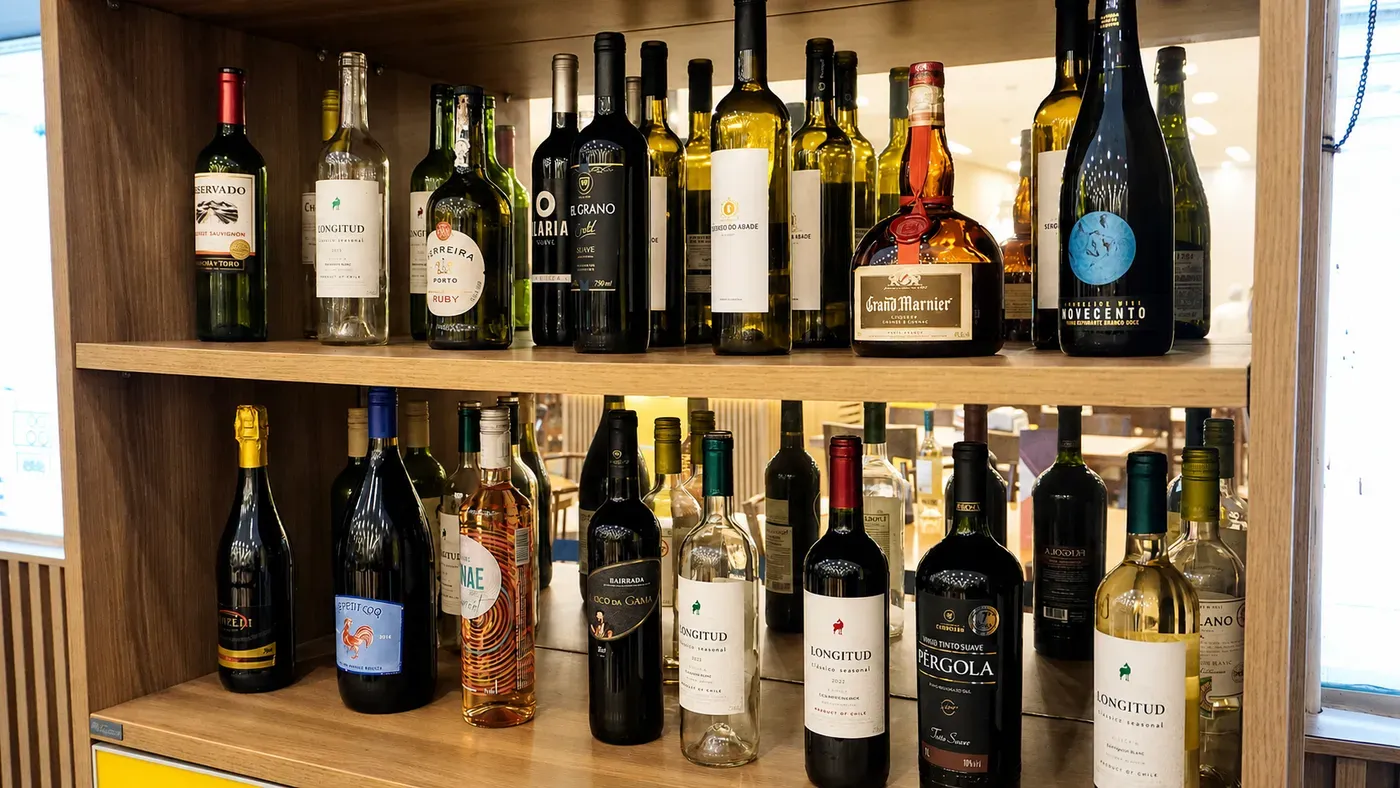
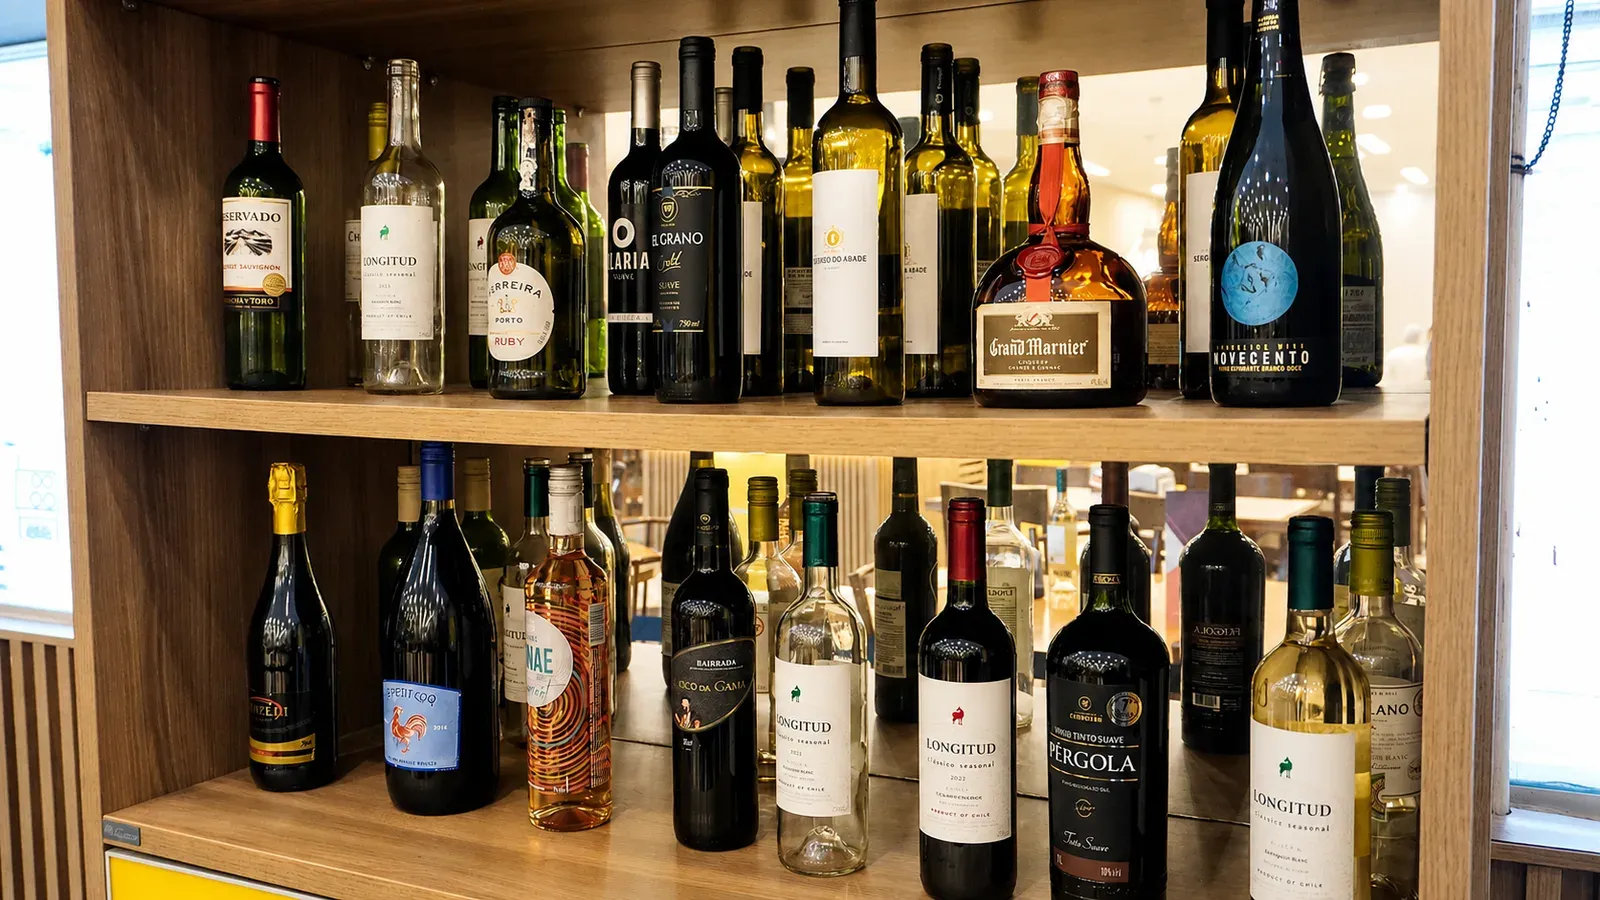
UPD: a adega aparece inteira, e Horários & Reservas ganha a faixa da marca
── A foto da adega ─────────────────────────────────────────────────────

A moldura pedia 21:9 e a foto é 16:9, então o `object-cover` cortava o
topo das garrafas da prateleira de cima — justamente o assunto da imagem.
Agora a moldura segue a proporção da própria foto: sem `aspect`, sem
`object-cover`, nada some. Uma faixa mais larga só valeria com uma foto
enquadrada para isso.

Conferido no navegador: a proporção exibida bate com a natural, o que só
acontece quando não há corte.

── A faixa de Horários & Reservas ──────────────────────────────────────

Passa ao marrom da marca, com texto branco. É a página que fecha a visita
— quem chega ali vem reservar — e o creme de sempre a deixava igual às
demais.

A variante entra no `PageHeader` por parâmetro e usa os tokens `bg-brand`
e `text-brand-foreground`, não o hexadecimal: se a paleta mudar, a faixa
acompanha. Medido no ar: 6,38:1, o mesmo número que o `site.ts` já
documentava para essa combinação.

diff --git a/src/components/page-header.tsx b/src/components/page-header.tsx
@@ -26,6 +26,7 @@ export function PageHeader({
   subtitle,
   image,
   imageAlt = "",
+  tone = "default",
 }: {
   title: string;
   subtitle?: string;
@@ -36,14 +37,25 @@ export function PageHeader({
    */
   image?: string;
   imageAlt?: string;
+  /**
+   * Fundo da faixa quando não há foto:
+   *
+   *  - `default` — o creme discreto de sempre, com texto escuro;
+   *  - `brand` — o marrom da marca com texto branco. Usa os tokens, não o
+   *    hexadecimal: se a paleta mudar, a faixa acompanha.
+   *
+   * Ignorado quando há `image` — aí quem manda é o véu sobre a foto.
+   */
+  tone?: "default" | "brand";
 }) {
   const comFoto = Boolean(image);
+  const marca = !comFoto && tone === "brand";
 
   return (
     <div
       className={cn(
         "relative isolate border-b border-border",
-        comFoto ? "overflow-hidden" : "bg-muted/30",
+        comFoto ? "overflow-hidden" : marca ? "bg-brand" : "bg-muted/30",
       )}
     >
       {comFoto ? (
@@ -81,6 +93,7 @@ export function PageHeader({
           className={cn(
             "max-w-3xl text-balance text-4xl font-bold tracking-tight sm:text-5xl",
             comFoto && "text-[#EFE9C2]",
+            marca && "text-brand-foreground",
           )}
         >
           {title}
@@ -89,7 +102,11 @@ export function PageHeader({
           <p
             className={cn(
               "mt-4 max-w-2xl text-pretty text-lg",
-              comFoto ? "text-[#EFE9C2]/85" : "text-muted-foreground",
+              comFoto
+                ? "text-[#EFE9C2]/85"
+                : marca
+                  ? "text-brand-foreground/85"
+                  : "text-muted-foreground",
             )}
           >
             {subtitle}

diff --git a/src/app/[locale]/(marketing)/experiencia/page.tsx b/src/app/[locale]/(marketing)/experiencia/page.tsx
@@ -103,15 +103,20 @@ export default async function AboutPage({
         </div>
 
         {/* A adega fecha o bloco do salão porque é dele que o texto fala — o
-            ambiente. Fica no fim da seção, em faixa larga, para não competir
-            com as duas colunas de texto acima. */}
+            ambiente.
+
+            Sem `aspect` e sem `object-cover`: a moldura segue a proporção da
+            própria foto. Forçando 21:9 sobre uma foto 16:9, o corte comia
+            justamente o topo das garrafas da prateleira de cima — que é o
+            assunto da imagem. Uma faixa mais larga só valeria com uma foto
+            enquadrada para isso. */}
         <Image
           src="/ambiente/vinhos.webp"
           alt={t("vinhosAlt")}
-          width={1400}
-          height={788}
+          width={1600}
+          height={900}
           sizes="(min-width: 1280px) 1200px, 100vw"
-          className="mt-14 aspect-[16/9] w-full rounded-2xl object-cover sm:aspect-[21/9]"
+          className="mt-14 w-full rounded-2xl"
         />
       </Section>
 

diff --git a/src/app/[locale]/(marketing)/reservas/page.tsx b/src/app/[locale]/(marketing)/reservas/page.tsx
@@ -77,7 +77,10 @@ export default async function ReservasPage({
 
   return (
     <>
-      <PageHeader title={t("title")} subtitle={t("subtitle")} />
+      {/* Faixa na cor da marca: esta página é a que fecha a visita — quem
+          chega aqui vem reservar —, e o creme de sempre a deixava igual às
+          demais. */}
+      <PageHeader title={t("title")} subtitle={t("subtitle")} tone="brand" />
 
       {/* 5.1 — Horários + "melhor momento para você" */}
       <Section>
